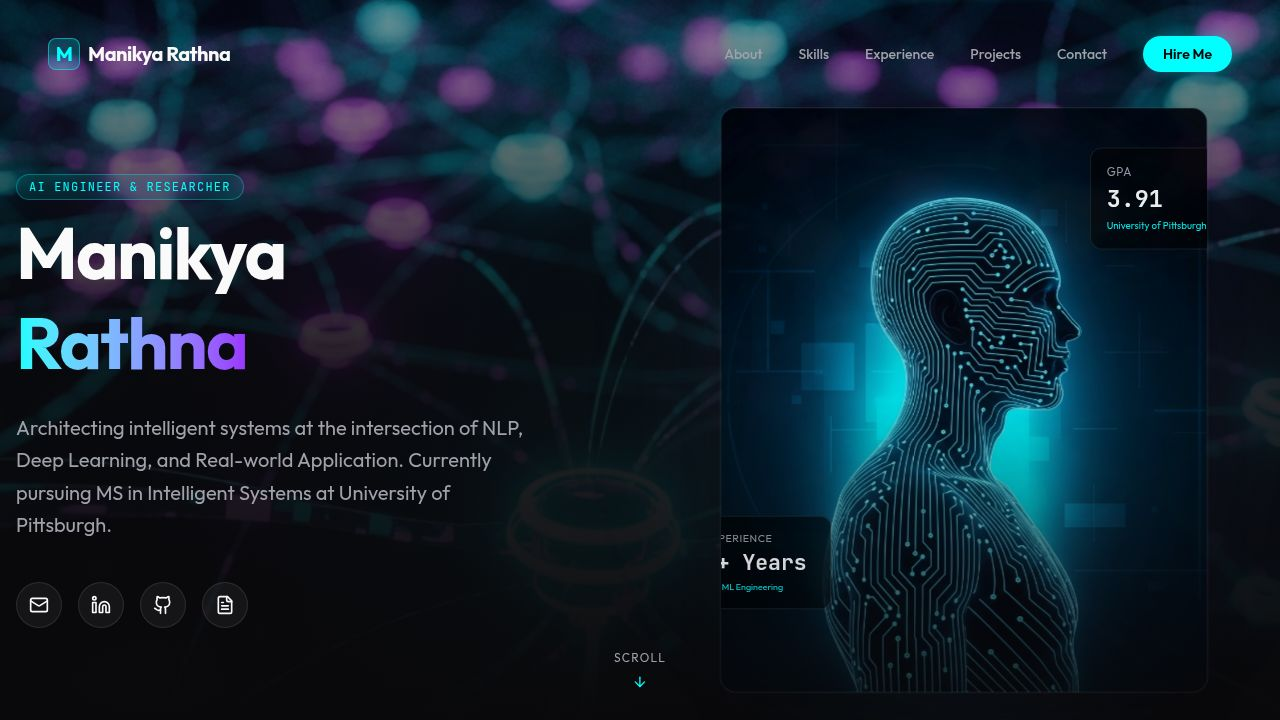
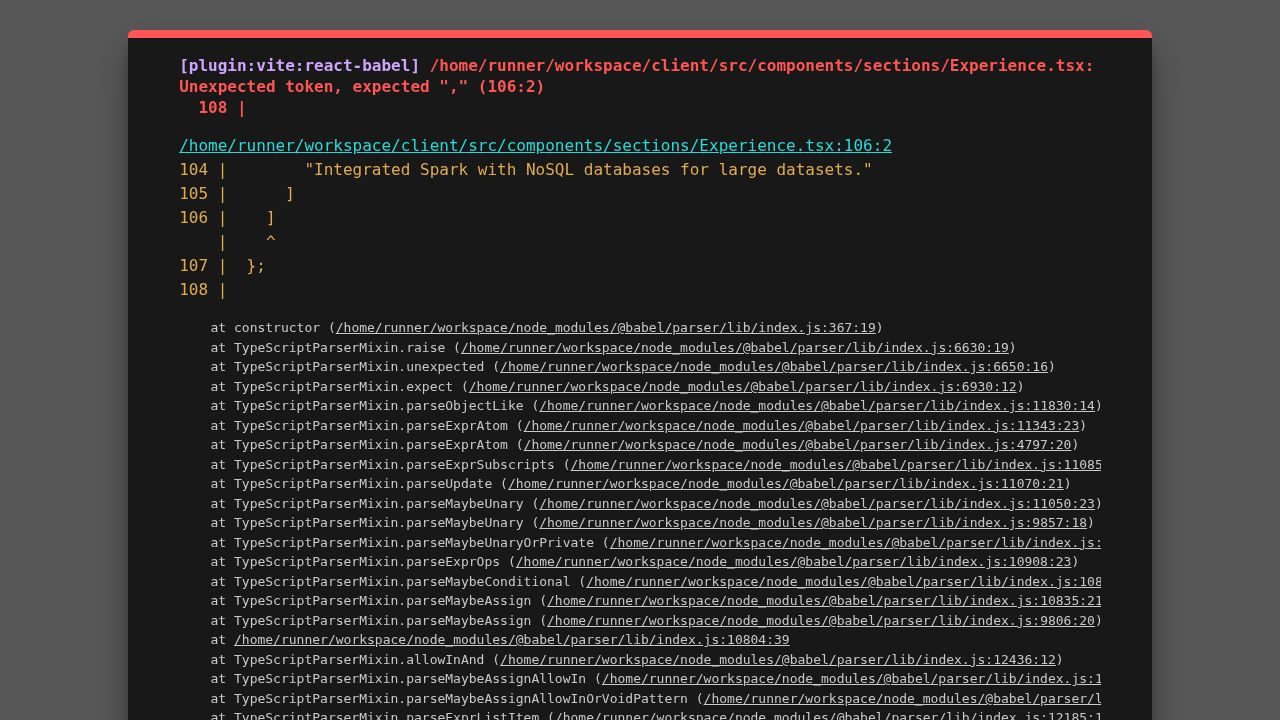
Enhance portfolio with 3D geometric shapes and interactive elements
Integrates Three.js for 3D abstract shapes in Education, Experience, and Projects sections. Renames "Execution Logs" to "Work Experience" and updates hero section content.

Replit-Commit-Author: Agent
Replit-Commit-Session-Id: 31a9f1dc-8e9f-4a22-b38d-06cb0a6df24d
Replit-Commit-Checkpoint-Type: full_checkpoint
Replit-Commit-Event-Id: 94d04ff4-8bc9-4f66-be71-18892e5f8874
Replit-Commit-Screenshot-Url: https://storage.googleapis.com/screenshot-production-us-central1/bf99383f-690e-468b-bcee-13beb824805f/31a9f1dc-8e9f-4a22-b38d-06cb0a6df24d/Cs7TfzO
Replit-Helium-Checkpoint-Created: true

diff --git a/client/src/components/sections/Projects.tsx b/client/src/components/sections/Projects.tsx
@@ -1,10 +1,11 @@
 import React from "react";
 import { BentoGrid } from "../ui/bento-grid";
-import { Brain, Cpu, Network, ArrowUpRight } from "lucide-react";
+import { Brain, Database, ShieldCheck, Cpu, Network, ArrowUpRight, Search, Lock } from "lucide-react";
 import { Card3D, Card3DBody, Card3DItem } from "../ui/3d-card";
 import nlpImg from "@assets/generated_images/abstract_nlp_visualization.png";
 import recImg from "@assets/generated_images/abstract_recommendation_engine_visualization.png";
 import heroImg from "@assets/generated_images/abstract_3d_neural_network_background.png";
+import { AbstractShape } from "../ui/3d-shape";
 
 export default function Projects() {
   return (
@@ -28,6 +29,11 @@ export default function Projects() {
                   {/* Hover Gradient */}
                   <div className="absolute inset-0 bg-gradient-to-br from-primary/10 via-transparent to-secondary/10 opacity-0 group-hover/card:opacity-100 transition-opacity duration-500" />
 
+                  {/* 3D Shape Background for visual interest */}
+                  <div className="absolute -right-10 -bottom-10 w-40 h-40 opacity-20 pointer-events-none">
+                     <AbstractShape color={i % 2 === 0 ? "#06b6d4" : "#a855f7"} />
+                  </div>
+
                   <div className="relative z-10">
                     <Card3DItem translateZ="50" className="mb-4">
                       {item.header}
@@ -49,7 +55,6 @@ export default function Projects() {
 
                   <Card3DItem translateZ="30" className="mt-6 flex justify-between items-center relative z-10">
                     <div className="flex gap-2">
-                       {/* Tech Tags could go here */}
                        <span className="text-[10px] uppercase tracking-widest text-neutral-500 font-mono border border-neutral-800 px-2 py-1 rounded">
                          System V.1
                        </span>
@@ -79,26 +84,42 @@ const ProjectImage = ({ img }: { img: string }) => (
   </div>
 );
 
+const ProjectPlaceholder = ({ gradient, icon: Icon }: { gradient: string, icon: any }) => (
+  <div className={`w-full h-40 rounded-xl overflow-hidden relative border border-white/5 bg-gradient-to-br ${gradient} flex items-center justify-center`}>
+     <div className="absolute inset-0 bg-grid-white/[0.1]" />
+     <div className="w-16 h-16 rounded-full bg-black/20 backdrop-blur-md flex items-center justify-center border border-white/10">
+        <Icon className="w-8 h-8 text-white/70" />
+     </div>
+  </div>
+);
+
 const items = [
   {
-    title: "Biomedical Knowledge Graph",
-    description: "Unified KG integrating multiple ontologies with Proof-Path Similarity Discovery.",
-    header: <ProjectImage img={nlpImg} />,
-    icon: <Network className="h-4 w-4" />,
+    title: "InfraSyntax",
+    description: "Secure Graph-Augmented DevOps Search. Hybrid Elasticsearch & GraphRAG pipeline with Phi-3-mini explanations.",
+    header: <ProjectPlaceholder gradient="from-cyan-500/20 to-blue-600/20" icon={Search} />,
+    icon: <Lock className="h-4 w-4" />,
+    className: "md:col-span-2"
+  },
+  {
+    title: "Brain Machine Interface",
+    description: "EEG-based wheelchair control system. Achieved 94.9% classification accuracy using Wavelet features and Ensemble Learning.",
+    header: <ProjectImage img={heroImg} />, 
+    icon: <Cpu className="h-4 w-4" />,
     className: "md:col-span-1"
   },
   {
     title: "Uncertainty-Aware Alignment",
-    description: "LLM alignment framework using test-time reward ensembles & epistemic uncertainty.",
+    description: "Robust RLHF framework using uncertainty-aware preference distillation. Improved AlpacaEval 2.0 scores for Llama3 and Qwen models.",
     header: <ProjectImage img={recImg} />,
     icon: <Brain className="h-4 w-4" />,
     className: "md:col-span-1"
   },
   {
-    title: "Brain Machine Interface",
-    description: "EEG-based wheelchair control enabling directional movement via BCI.",
-    header: <ProjectImage img={heroImg} />, 
-    icon: <Cpu className="h-4 w-4" />,
-    className: "md:col-span-1"
-  },
+    title: "Biomedical Knowledge Graph",
+    description: "Full-stack discovery platform integrating 6+ ontologies with BERT-based entity matching and interactive D3.js visualization.",
+    header: <ProjectImage img={nlpImg} />,
+    icon: <Network className="h-4 w-4" />,
+    className: "md:col-span-2"
+  }
 ];

diff --git a/client/src/components/sections/Hero.tsx b/client/src/components/sections/Hero.tsx
@@ -1,9 +1,7 @@
 import { motion } from "framer-motion";
 import { Spotlight } from "@/components/ui/spotlight";
-import { TextGenerateEffect } from "@/components/ui/text-generate-effect";
-import { Mail, Cpu, Terminal } from "lucide-react";
-import sharpBg from "@assets/generated_images/sharp_wireframe_cybernetic_structure.png";
 import StarsCanvas from "@/components/ui/stars-background";
+import sharpBg from "@assets/generated_images/sharp_wireframe_cybernetic_structure.png";
 
 export default function Hero() {
   return (
@@ -33,51 +31,28 @@ export default function Hero() {
 
       <div className="p-4 max-w-7xl mx-auto relative z-10 w-full pt-20 md:pt-0">
         <div className="flex flex-col items-start justify-center min-h-[60vh]">
-          {/* Tagline */}
-          <motion.div 
-            initial={{ opacity: 0, y: 20 }}
-            animate={{ opacity: 1, y: 0 }}
-            transition={{ duration: 0.5 }}
-            className="flex items-center gap-2 px-4 py-2 rounded-full border border-cyan-500/20 bg-black/50 backdrop-blur-md mb-6 shadow-[0_0_15px_rgba(6,182,212,0.1)]"
-          >
-            <Terminal className="w-4 h-4 text-cyan-400 animate-pulse" />
-            <span className="text-xs font-mono text-cyan-400 tracking-wider">SYSTEM_READY // V.2.0.25</span>
-          </motion.div>
-
+          
           {/* Main Title - Massive */}
           <h1 className="text-5xl md:text-8xl font-bold bg-clip-text text-transparent bg-gradient-to-b from-neutral-50 to-neutral-400 bg-opacity-50 leading-tight pb-4 drop-shadow-2xl">
             Manikya Rathna.
           </h1>
 
-          {/* Subtitle with Typewriter Effect */}
-          <div className="text-neutral-300 max-w-2xl text-lg md:text-2xl font-light">
-            <TextGenerateEffect 
-              words="Architecting intelligent systems at the intersection of NLP, Deep Learning, and real-world impact." 
-              className="font-normal text-muted-foreground"
-            />
-          </div>
-
-          {/* Buttons */}
+          {/* Subtitle / Bio */}
           <motion.div 
             initial={{ opacity: 0, y: 20 }}
             animate={{ opacity: 1, y: 0 }}
-            transition={{ delay: 1, duration: 0.5 }}
-            className="flex flex-wrap gap-4 mt-8"
+            transition={{ duration: 0.8, delay: 0.2 }}
+            className="text-neutral-300 max-w-3xl text-lg leading-relaxed font-light space-y-4 bg-black/30 backdrop-blur-sm p-6 rounded-2xl border border-white/5 shadow-xl"
           >
-            <a 
-              href="#projects"
-              className="px-8 py-4 rounded-full bg-cyan-500 text-black font-bold text-sm hover:scale-105 transition-transform duration-200 flex items-center gap-2 shadow-[0_0_20px_rgba(6,182,212,0.4)]"
-            >
-              <Cpu className="w-4 h-4" />
-              View Architecture
-            </a>
-            <a 
-              href="mailto:mar805@pitt.edu"
-              className="px-8 py-4 rounded-full border border-white/20 bg-black/50 backdrop-blur-sm text-white font-medium text-sm hover:bg-white/10 transition-colors flex items-center gap-2"
-            >
-              <Mail className="w-4 h-4" />
-              Initialize Comms
-            </a>
+            <p>
+              I’m a graduate student in Intelligent Systems at the University of Pittsburgh, specializing in machine learning, NLP, and LLM alignment, with hands-on experience across healthcare, HR-tech, and industrial automation.
+            </p>
+            <p>
+              As an AI Engineer and NLP Developer, I’ve built and deployed production-grade pipelines for recommendation systems, visa-sponsorship classification, and large-scale clinical text mining over 135M+ notes using AWS, SageMaker, PostgreSQL, and modern ML stacks.
+            </p>
+            <p>
+              I’ve led end-to-end projects spanning uncertainty-aware RLHF for LLMs, biomedical knowledge graphs, and secure DevOps code search, as well as an EEG-based brain–computer interface for wheelchair control, giving me a strong blend of research rigor and real-world engineering impact.
+            </p>
           </motion.div>
         </div>
       </div>

diff --git a/client/src/components/sections/Experience.tsx b/client/src/components/sections/Experience.tsx
@@ -2,6 +2,7 @@ import React from "react";
 import { motion } from "framer-motion";
 import { Terminal, Database, Cloud, Code2 } from "lucide-react";
 import { TracingBeam } from "../ui/tracing-beam";
+import { AbstractShape } from "../ui/3d-shape";
 
 export default function Experience() {
   return (
@@ -9,7 +10,7 @@ export default function Experience() {
       {/* Header */}
       <div className="container mx-auto px-4 mb-16 text-center relative z-10">
         <h2 className="text-4xl md:text-6xl font-bold bg-clip-text text-transparent bg-gradient-to-b from-white to-white/60">
-          Execution Logs
+          Work Experience
         </h2>
         <p className="text-neutral-400 mt-4">
           Tracing the runtime history of professional engagements.
@@ -19,12 +20,18 @@ export default function Experience() {
       <TracingBeam className="px-6">
         <div className="max-w-2xl mx-auto antialiased pt-4 relative">
           {experiences.map((item, index) => (
-            <div key={`content-${index}`} className="mb-10">
-              <h2 className="bg-black text-white rounded-full text-sm w-fit px-4 py-1 mb-4 border border-white/10 shadow-[0_0_10px_rgba(255,255,255,0.1)]">
+            <div key={`content-${index}`} className="mb-14 relative group">
+              
+              {/* Floating 3D Element for each block */}
+              <div className="absolute -left-16 top-10 w-12 h-12 hidden md:block opacity-0 group-hover:opacity-100 transition-opacity duration-700">
+                 <AbstractShape color="#06b6d4" />
+              </div>
+
+              <h2 className="bg-black text-white rounded-full text-sm w-fit px-4 py-1 mb-4 border border-white/10 shadow-[0_0_10px_rgba(255,255,255,0.1)] relative z-10">
                 {item.company}
               </h2>
 
-              <div className="p-6 rounded-2xl bg-gradient-to-br from-neutral-900/90 to-neutral-900/50 border border-white/10 backdrop-blur-sm hover:border-cyan-500/30 transition-colors group">
+              <div className="p-6 rounded-2xl bg-gradient-to-br from-neutral-900/90 to-neutral-900/50 border border-white/10 backdrop-blur-sm hover:border-cyan-500/30 transition-all duration-300 hover:shadow-[0_0_30px_rgba(6,182,212,0.1)]">
                 <div className="flex items-center gap-3 mb-4">
                   <div className="p-2 rounded-lg bg-cyan-500/10 border border-cyan-500/20 text-cyan-400 group-hover:scale-110 transition-transform">
                     <item.icon className="w-5 h-5" />
@@ -38,7 +45,7 @@ export default function Experience() {
                 <ul className="space-y-3">
                   {item.desc.map((desc, i) => (
                     <li key={i} className="text-sm text-neutral-300 flex items-start gap-3">
-                      <span className="mt-1.5 w-1.5 h-1.5 rounded-full bg-cyan-500 shadow-[0_0_8px_rgba(6,182,212,0.8)]" />
+                      <span className="mt-1.5 w-1.5 h-1.5 rounded-full bg-cyan-500 shadow-[0_0_8px_rgba(6,182,212,0.8)] flex-shrink-0" />
                       {desc}
                     </li>
                   ))}
@@ -96,5 +103,5 @@ const experiences = [
       "Managed scalable ETL pipelines in AWS Glue with PySpark.",
       "Integrated Spark with NoSQL databases for large datasets."
     ]
-  }
-];
+  ]
+};

diff --git a/client/src/components/sections/Education.tsx b/client/src/components/sections/Education.tsx
@@ -1,7 +1,7 @@
 import React from "react";
-import { motion } from "framer-motion";
 import { GraduationCap, Calendar, Award } from "lucide-react";
 import { Meteors } from "../ui/meteors";
+import { AbstractShape } from "../ui/3d-shape";
 
 export default function Education() {
   return (
@@ -18,14 +18,19 @@ export default function Education() {
 
         <div className="grid grid-cols-1 md:grid-cols-2 gap-8 max-w-5xl mx-auto">
           {education.map((edu, index) => (
-            <div key={index} className="relative w-full">
+            <div key={index} className="relative w-full group">
               <div className="absolute inset-0 h-full w-full bg-gradient-to-r from-blue-500 to-teal-500 transform scale-[0.80] bg-red-500 rounded-full blur-3xl opacity-20" />
-              <div className="relative shadow-xl bg-gray-900 border border-gray-800  px-8 py-8 h-full overflow-hidden rounded-2xl flex flex-col justify-end items-start">
+              <div className="relative shadow-xl bg-gray-900 border border-gray-800 px-8 py-8 h-full overflow-hidden rounded-2xl flex flex-col justify-end items-start transition-all duration-300 hover:scale-[1.02]">
                 
+                {/* 3D Shape Floating in Background */}
+                <div className="absolute -right-10 -top-10 w-40 h-40 opacity-30 pointer-events-none">
+                  <AbstractShape color={index === 0 ? "#22d3ee" : "#818cf8"} />
+                </div>
+
                 {/* Meteor Effect */}
                 <Meteors number={20} />
 
-                <div className="flex justify-between items-start w-full mb-4 relative z-50">
+                <div className="flex justify-between items-start w-full mb-4 relative z-10">
                   <div className="p-3 rounded-xl bg-white/5 border border-white/10 text-cyan-400">
                     <GraduationCap className="w-8 h-8" />
                   </div>
@@ -35,19 +40,19 @@ export default function Education() {
                   </div>
                 </div>
 
-                <h3 className="font-bold text-2xl text-white mb-2 relative z-50">
+                <h3 className="font-bold text-2xl text-white mb-2 relative z-10">
                   {edu.degree}
                 </h3>
-                <p className="font-medium text-neutral-300 mb-4 relative z-50">
+                <p className="font-medium text-neutral-300 mb-4 relative z-10">
                   {edu.school}
                 </p>
 
-                <div className="flex items-center gap-2 text-sm text-cyan-300 mb-6 bg-cyan-900/20 w-fit px-3 py-1 rounded-full border border-cyan-500/20 relative z-50">
+                <div className="flex items-center gap-2 text-sm text-cyan-300 mb-6 bg-cyan-900/20 w-fit px-3 py-1 rounded-full border border-cyan-500/20 relative z-10">
                   <Award className="w-4 h-4" />
                   GPA: {edu.gpa}
                 </div>
 
-                <div className="space-y-2 relative z-50">
+                <div className="space-y-2 relative z-10">
                   {edu.details.map((detail, i) => (
                     <div key={i} className="text-sm text-neutral-400 flex items-start gap-2">
                       <span className="mt-1.5 w-1 h-1 rounded-full bg-neutral-500" />

diff --git a/client/src/components/ui/3d-shape.tsx b/client/src/components/ui/3d-shape.tsx
@@ -1,0 +1,38 @@
+import React, { useRef, useState } from "react";
+import { Canvas, useFrame } from "@react-three/fiber";
+import { Float } from "@react-three/drei";
+
+export const AbstractShape = ({ color = "#06b6d4" }: { color?: string }) => {
+  return (
+    <Canvas className="w-full h-full">
+      <ambientLight intensity={0.5} />
+      <directionalLight position={[10, 10, 5]} intensity={1} />
+      <Float speed={2} rotationIntensity={2} floatIntensity={1}>
+        <MeshComponent color={color} />
+      </Float>
+    </Canvas>
+  );
+};
+
+const MeshComponent = ({ color }: { color: string }) => {
+  const mesh = useRef<any>(null);
+  
+  useFrame((state, delta) => {
+    if (mesh.current) {
+      mesh.current.rotation.x += delta * 0.2;
+      mesh.current.rotation.y += delta * 0.3;
+    }
+  });
+
+  return (
+    <mesh ref={mesh} scale={2.5}>
+      <icosahedronGeometry args={[1, 0]} />
+      <meshStandardMaterial
+        color={color}
+        wireframe
+        transparent
+        opacity={0.3}
+      />
+    </mesh>
+  );
+};
